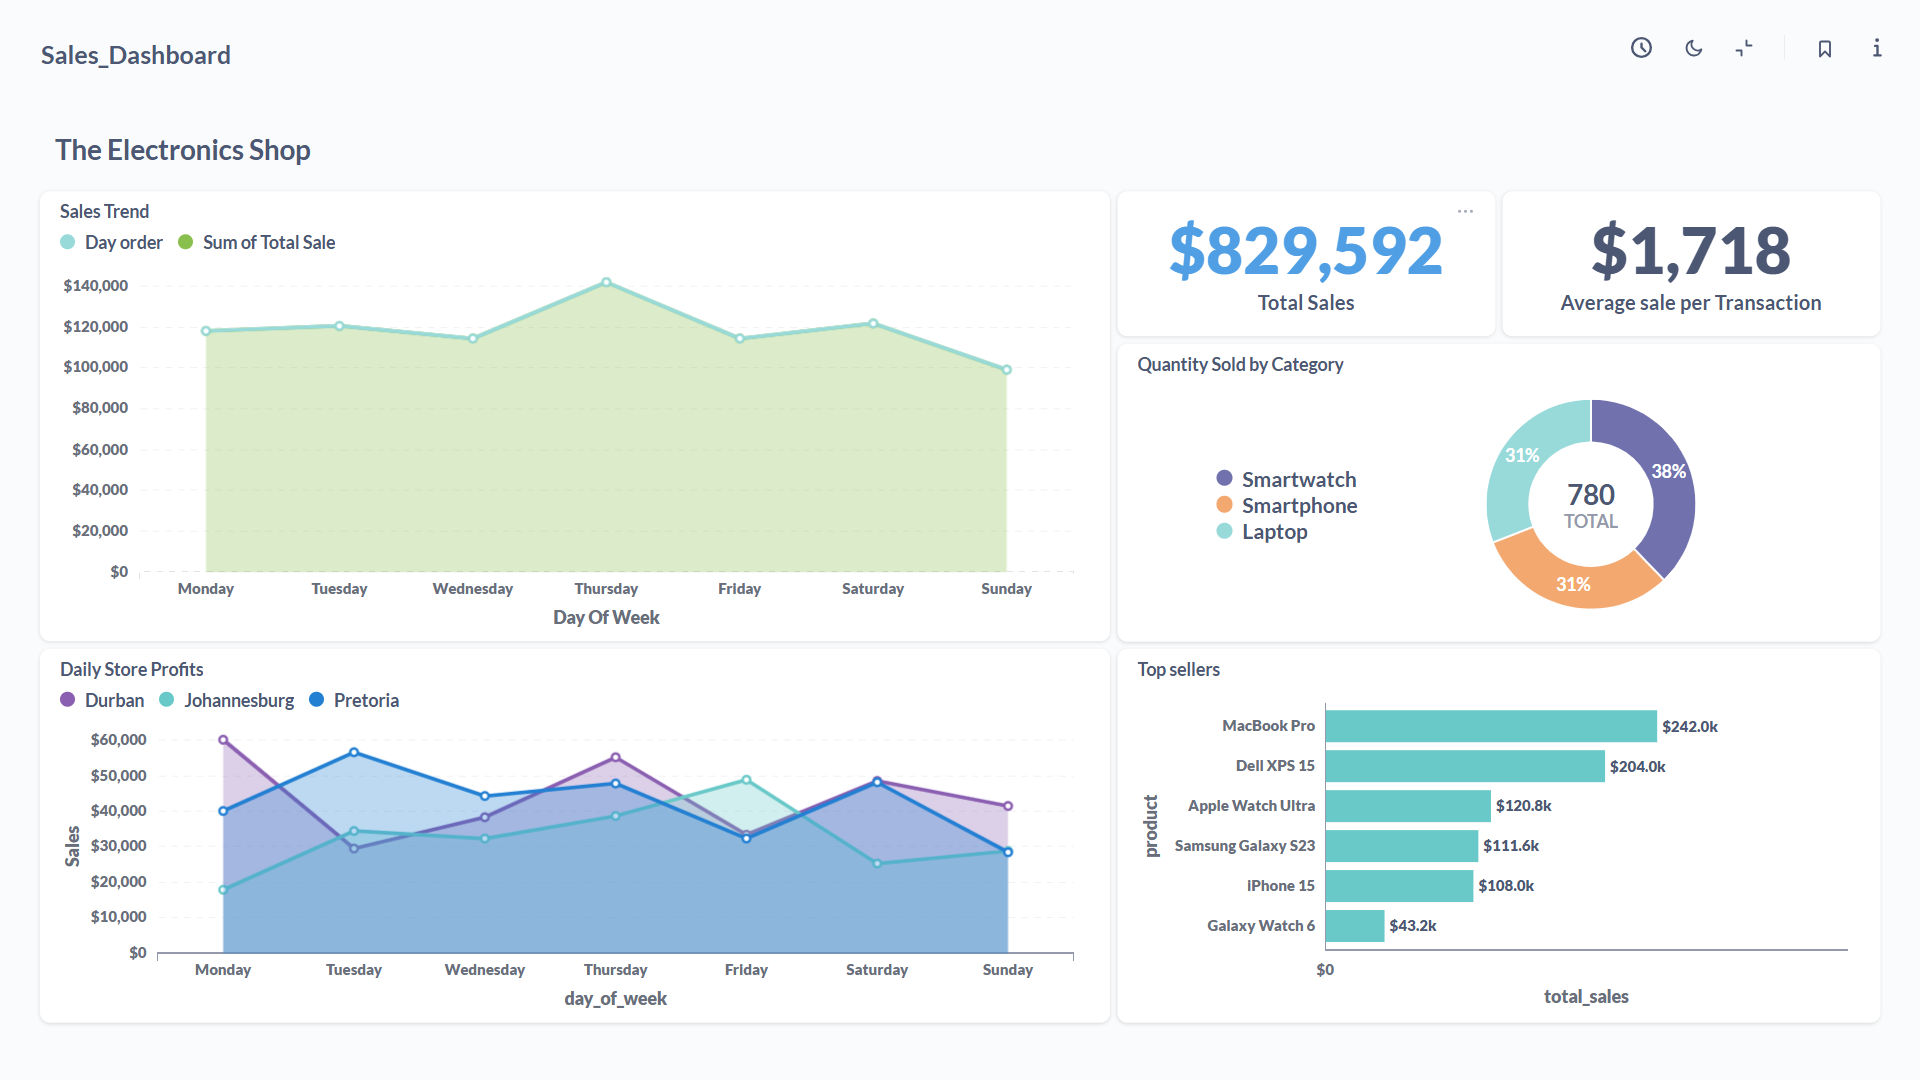
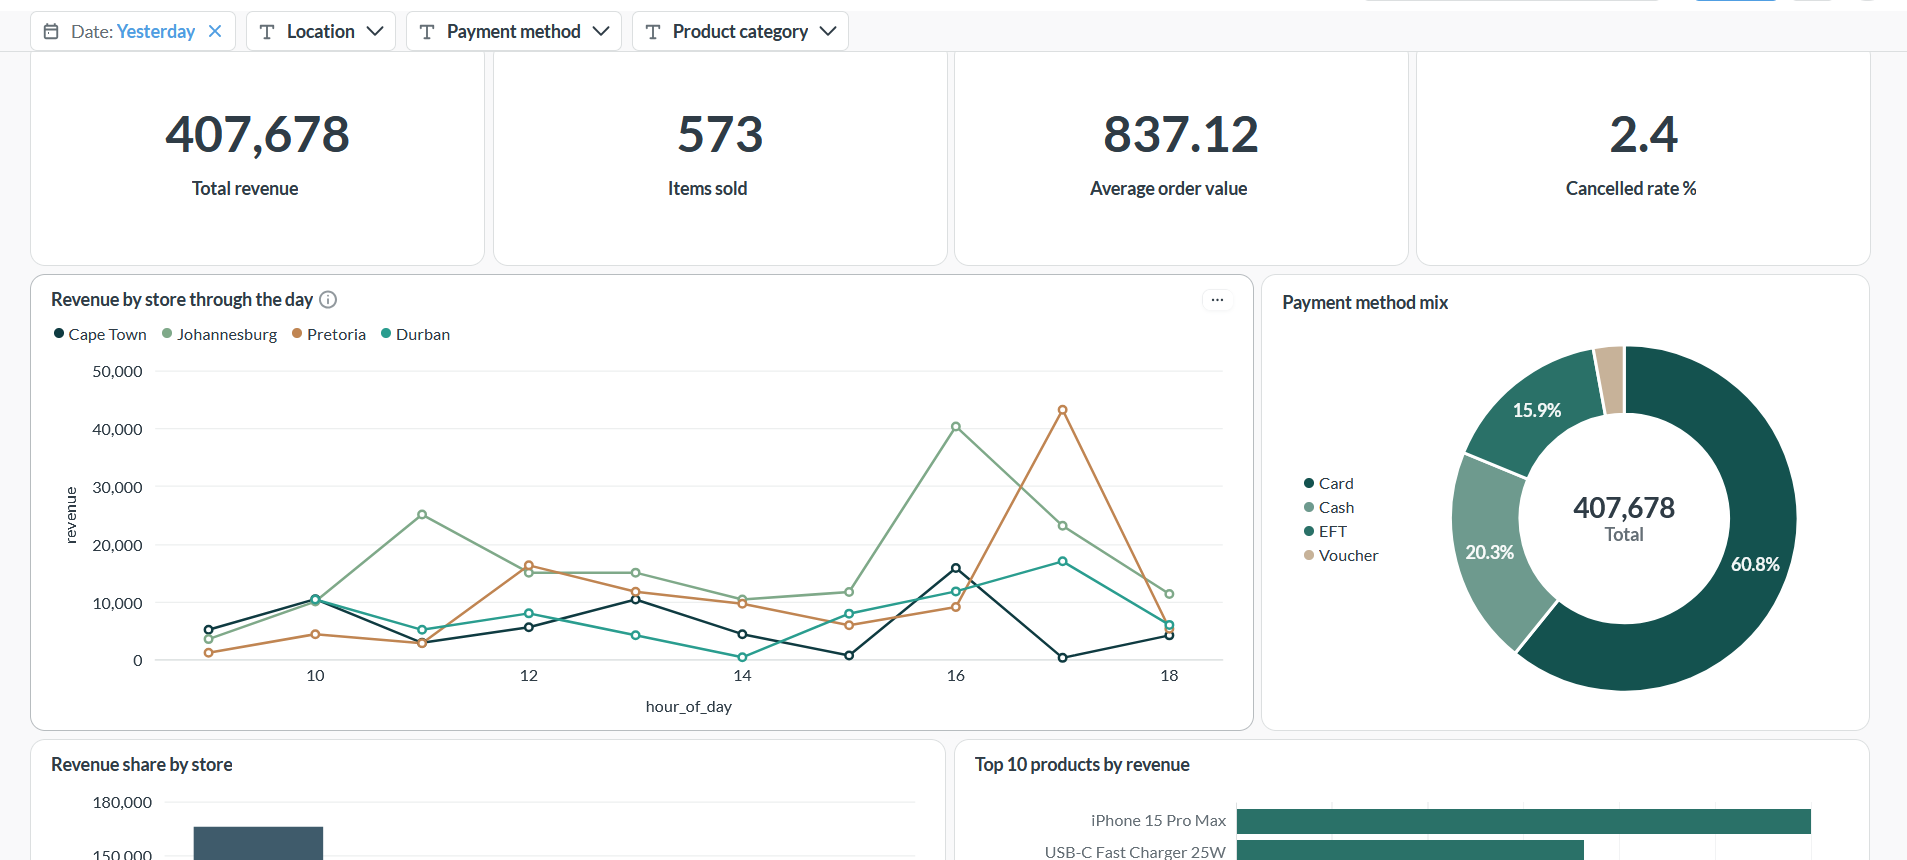
Replace the dashboard screenshots with the new daily pair
Both images are now side by side as before, and the captions say Day 1
and Day 2 since the pipeline runs daily rather than weekly.

diff --git a/README.md b/README.md
@@ -166,17 +166,17 @@ The loader never deletes. Every table is written with `INSERT ... ON DUPLICATE K
 <table>
   <tr>
     <td style="text-align: center;">
-      <img src="./images/dashboard_v1.png" alt="Image 1" width="600"/><br/>
-      <b>Figure 1:</b> Week 1
+      <img src="./images/dashboard_v1.png" alt="Sales dashboard for the first day" width="600"/><br/>
+      <b>Figure 1:</b> Day 1
     </td>
     <td style="text-align: center;">
-      <img src="./images/dashboard_v2.png" alt="Image 2" width="600"/><br/>
-      <b>Figure 2:</b> Week 2
+      <img src="./images/dashboard_v2.png" alt="Sales dashboard for the next day" width="600"/><br/>
+      <b>Figure 2:</b> Day 2
     </td>
   </tr>
 </table>
 
-The images above display the dashboard for two different weeks. The second image reflects the updated dashboard with refreshed data.
+The images above show the dashboard side by side for two different days. The second image reflects the dashboard with refreshed data.
 
 
 To view the dashboard for demo purposes, please contact me at [lamel446@gmail.com](mailto:lamel446@gmail.com) so i can create a user for.
